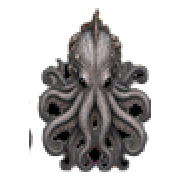
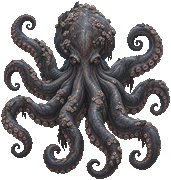
#239 オクトパスの画像を再生成(切れ・分離を解消)
- 画像3枚をcodexで再生成(全身が画面内に収まり、体から離れた断片が出ないプロンプト)
- ドット絵化を高精細(180px/64色)指定に追加。触腕が潰れないように
- テストで「連結成分が1つ」「辺に沿って切られていない」「実行時に
  プレースホルダでなく実テクスチャが載る」ことを検証

diff --git a/画像生成/ドット絵化.py b/画像生成/ドット絵化.py
@@ -22,7 +22,9 @@ LONG_OVERRIDE = {"lord_leviathan.png": 200, "lord_leviathan_front.png": 200, "lo
                  "lord_legion.png": 180, "lord_legion_front.png": 180, "lord_legion_back.png": 180,
                  # #239再3: ウンディーネ・セイレーンを高精細化(人型は細部が潰れやすい)
                  "lord_undine.png": 180, "lord_undine_front.png": 180, "lord_undine_back.png": 180,
-                 "lord_siren.png": 180, "lord_siren_front.png": 180, "lord_siren_back.png": 180}
+                 "lord_siren.png": 180, "lord_siren_front.png": 180, "lord_siren_back.png": 180,
+                 # #239再6: オクトパス(触腕が細かいので高精細。48pxだと足が潰れて塊に見える)
+                 "lord_kraken_lord.png": 180, "lord_kraken_lord_front.png": 180, "lord_kraken_lord_back.png": 180}
 # #81: レヴィアタンは色数も増やしてより詳細に。#173: ケツァルも増色。#81再: ヒュドラ増色・ケツァル64色
 COLORS_OVERRIDE = {"lord_leviathan.png": 64, "lord_leviathan_front.png": 64, "lord_leviathan_back.png": 64, "lord_hydra.png": 64, "lord_hydra_front.png": 64, "lord_hydra_back.png": 64, "lord_quetzal.png": 64, "lord_quetzal_front.png": 64, "lord_quetzal_back.png": 64,
                    # #187: 幽霊船
@@ -32,7 +34,9 @@ COLORS_OVERRIDE = {"lord_leviathan.png": 64, "lord_leviathan_front.png": 64, "lo
                    "lord_legion.png": 64, "lord_legion_front.png": 64, "lord_legion_back.png": 64,
                    # #239再3: 人型2体は色数も増やす
                    "lord_undine.png": 64, "lord_undine_front.png": 64, "lord_undine_back.png": 64,
-                   "lord_siren.png": 64, "lord_siren_front.png": 64, "lord_siren_back.png": 64}
+                   "lord_siren.png": 64, "lord_siren_front.png": 64, "lord_siren_back.png": 64,
+                   # #239再6: オクトパス
+                   "lord_kraken_lord.png": 64, "lord_kraken_lord_front.png": 64, "lord_kraken_lord_back.png": 64}
 
 for f in sorted(os.listdir(SRC)):
     if not f.lower().endswith(".png"):
